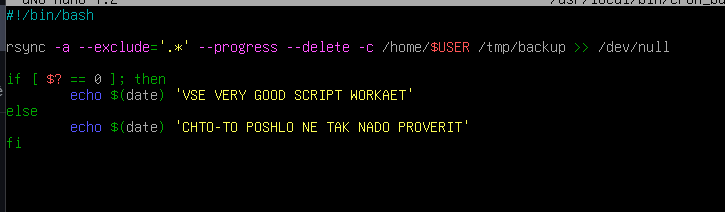
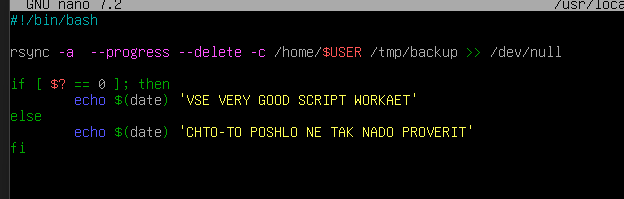
2

Changed region(s): [[0.0, 0.0, 1.0, 1.0], [0.0913, 0.5729, 0.7612, 0.6935], [0.6394, 0.4523, 0.6699, 0.4824]]

diff --git a/README.md b/README.md
@@ -17,12 +17,19 @@
 3. Резервная копия должна создаваться раз в день, в системном логе должна появляться запись об успешном или неуспешном выполнении операции
 4. Резервная копия размещается локально, в директории /tmp/backup
 5. На проверку направить файл crontab и скриншот с результатом работы утилиты.
- ![Скрипт](./img/rsync2.png)
- ХОРОШО ИЛИ НЕ ХОРОШО ПЕРЕНАПРАВЛЯЕТСЯ В ФАЙЛ, настроено по минуте, чтобы раз в день, нужно вместо всех звезд поставить 0 3 * * * раз в день в 3 часа
- ![ЛОГ](./img/rsync3.png)
- КРОНТАБ
- ![КРОНТАБ](./img/rsync5.png)
+
+![Скрипт](./img/rsync2.png)
+#
+ХОРОШО ИЛИ НЕ ХОРОШО ПЕРЕНАПРАВЛЯЕТСЯ В ФАЙЛ, настроено по минуте, чтобы раз в день, нужно вместо всех звезд поставить 0 3 * * * раз в день в 3 часа
+#
+![ЛОГ](./img/rsync3.png)
+#
+КРОНТАБ
+#
+![КРОНТАБ](./img/rsync5.png)
+#
 СРАВНЕНИЕ ДИРЕКТОРИЙ
+#
 ![СРАВНЕНИЕ](./img/rsync4.png)
 
 
